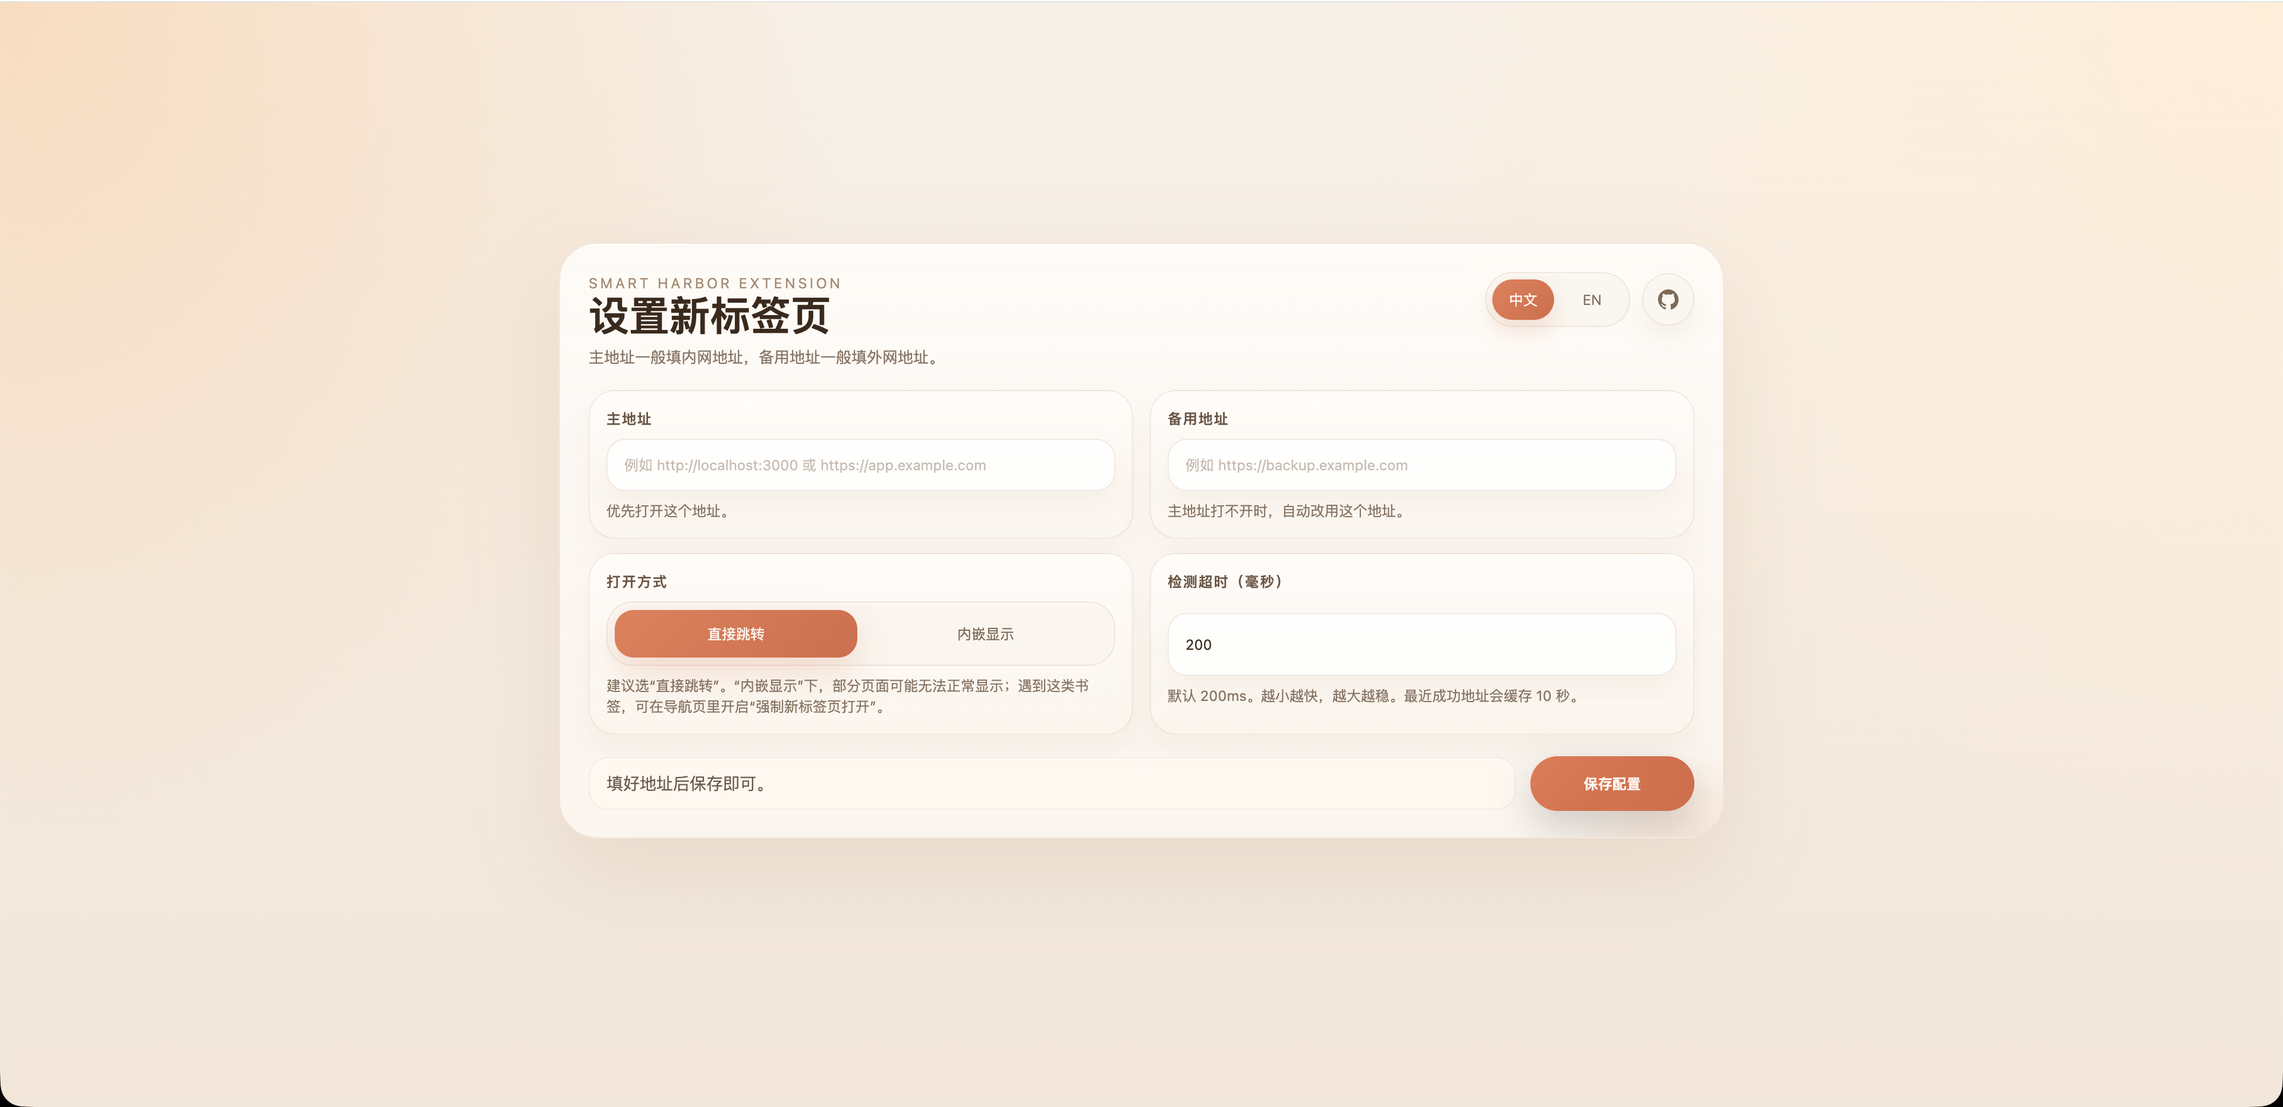
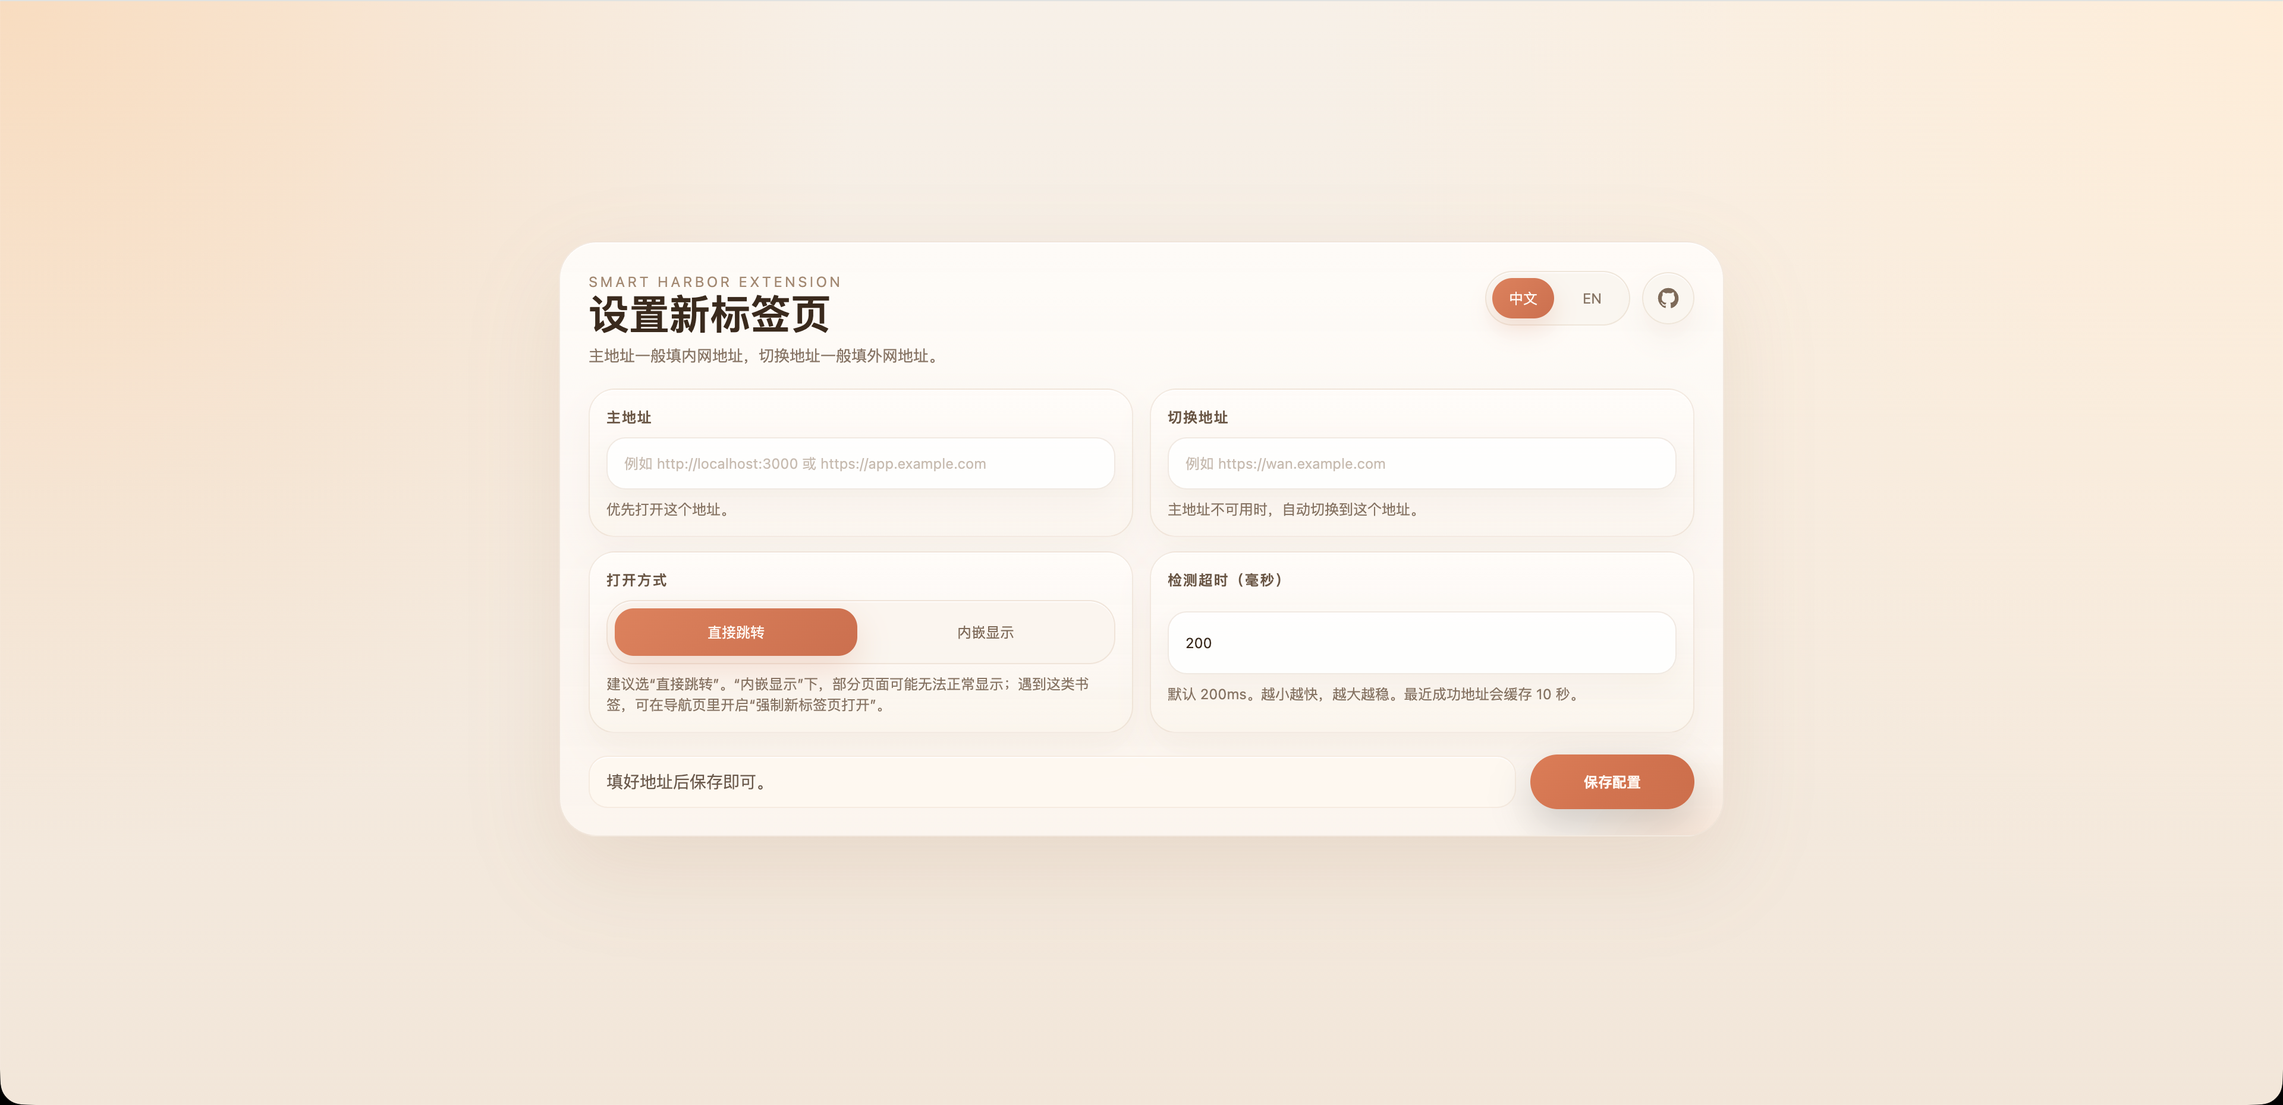
release: v1.2.2

diff --git a/src/features/services/ServiceGrid.tsx b/src/features/services/ServiceGrid.tsx
@@ -1,4 +1,5 @@
 import { startTransition, useEffect, useMemo, useRef, useState } from 'react'
+import type { CSSProperties } from 'react'
 import { createPortal } from 'react-dom'
 import { Pencil, Trash2 } from 'lucide-react'
 import { useI18n } from '@/i18n/runtime'
@@ -30,22 +31,33 @@ interface ContextMenuState {
   y: number
 }
 
-const DESKTOP_SECTION_PADDING_PX = 24
+const DESKTOP_SECTION_HORIZONTAL_PADDING_PX = 24
 const DESKTOP_LABEL_WIDTH_PX = 84
-const DESKTOP_CONTENT_GAP_PX = 12
-const DESKTOP_CARD_WIDTH_PX = 130
+const DESKTOP_SECTION_GAP_PX = 12
+const DESKTOP_GRID_HORIZONTAL_PADDING_PX = 12
 const DESKTOP_CARD_GAP_PX = 10
+const DESKTOP_CARD_MIN_WIDTH_PX = 130
 
-function getCompactGroupWidth(cardCount: number) {
-  const totalCardWidth = cardCount * DESKTOP_CARD_WIDTH_PX
-  const totalCardGaps = Math.max(cardCount - 1, 0) * DESKTOP_CARD_GAP_PX
+function getDesktopCardWidth(containerWidth: number, desktopColumnCount: number) {
+  const availableWidth =
+    containerWidth -
+    DESKTOP_SECTION_HORIZONTAL_PADDING_PX -
+    DESKTOP_LABEL_WIDTH_PX -
+    DESKTOP_SECTION_GAP_PX -
+    DESKTOP_GRID_HORIZONTAL_PADDING_PX -
+    Math.max(desktopColumnCount - 1, 0) * DESKTOP_CARD_GAP_PX
 
+  return Math.max(Math.floor(availableWidth / desktopColumnCount), DESKTOP_CARD_MIN_WIDTH_PX)
+}
+
+function getCompactGroupWidth(cardCount: number, desktopCardWidth: number) {
   return (
-    DESKTOP_SECTION_PADDING_PX +
+    DESKTOP_SECTION_HORIZONTAL_PADDING_PX +
     DESKTOP_LABEL_WIDTH_PX +
-    DESKTOP_CONTENT_GAP_PX +
-    totalCardWidth +
-    totalCardGaps
+    DESKTOP_SECTION_GAP_PX +
+    DESKTOP_GRID_HORIZONTAL_PADDING_PX +
+    cardCount * desktopCardWidth +
+    Math.max(cardCount - 1, 0) * DESKTOP_CARD_GAP_PX
   )
 }
 
@@ -62,6 +74,21 @@ export function ServiceGrid() {
   const [contextMenu, setContextMenu] = useState<ContextMenuState | null>(null)
   const [editingSlug, setEditingSlug] = useState<string | null>(null)
   const [gridWidth, setGridWidth] = useState(0)
+  const [desktopColumnCount, setDesktopColumnCount] = useState(() => {
+    if (typeof window === 'undefined') {
+      return 0
+    }
+
+    if (window.innerWidth >= 1280) {
+      return 8
+    }
+
+    if (window.innerWidth >= 1024) {
+      return 6
+    }
+
+    return 0
+  })
   const [, setIconRenderVersion] = useState(0)
   const gridRef = useRef<HTMLDivElement | null>(null)
   const activeSystemConfig = systemConfig ?? defaultSystemConfig
@@ -128,8 +155,30 @@ export function ServiceGrid() {
   }, [contextMenu])
 
   useEffect(() => {
+    if (typeof window === 'undefined') {
+      return
+    }
+
+    const updateDesktopColumnCount = () => {
+      setDesktopColumnCount((current) => {
+        const next =
+          window.innerWidth >= 1280 ? 8 : window.innerWidth >= 1024 ? 6 : 0
+
+        return current === next ? current : next
+      })
+    }
+
+    updateDesktopColumnCount()
+    window.addEventListener('resize', updateDesktopColumnCount)
+
+    return () => {
+      window.removeEventListener('resize', updateDesktopColumnCount)
+    }
+  }, [])
+
+  useEffect(() => {
     const element = gridRef.current
-    if (!element || typeof ResizeObserver === 'undefined') {
+    if (!element) {
       return
     }
 
@@ -138,6 +187,10 @@ export function ServiceGrid() {
     }
 
     updateWidth(Math.round(element.getBoundingClientRect().width))
+
+    if (typeof ResizeObserver === 'undefined') {
+      return
+    }
 
     const observer = new ResizeObserver((entries) => {
       const entry = entries[0]
@@ -257,6 +310,10 @@ export function ServiceGrid() {
 
   const menuLeft = contextMenu ? Math.min(contextMenu.x, window.innerWidth - 180) : 0
   const menuTop = contextMenu ? Math.min(contextMenu.y, window.innerHeight - 120) : 0
+  const desktopCardWidth =
+    desktopColumnCount > 0 && gridWidth > 0
+      ? getDesktopCardWidth(gridWidth, desktopColumnCount)
+      : DESKTOP_CARD_MIN_WIDTH_PX
 
   return (
     <>
@@ -265,8 +322,16 @@ export function ServiceGrid() {
           const isGroupDropTarget =
             dragOver?.groupIndex === group.actualGroupIndex &&
             typeof dragOver.serviceIndex === 'undefined'
-          const compactGroupWidth = getCompactGroupWidth(group.services.length)
-          const canKeepSingleRow = group.services.length > 0 && compactGroupWidth <= gridWidth
+          const compactGroupWidth = getCompactGroupWidth(group.services.length, desktopCardWidth)
+          const canKeepSingleRow =
+            desktopColumnCount > 0 &&
+            group.services.length > 0 &&
+            compactGroupWidth <= gridWidth
+          const compactGridStyle = canKeepSingleRow
+            ? ({
+                '--desktop-card-width': `${desktopCardWidth}px`,
+              } as CSSProperties)
+            : undefined
 
           return (
             <section
@@ -284,7 +349,8 @@ export function ServiceGrid() {
                 </div>
 
                 <div
-                  className={`grid min-h-[76px] w-full flex-1 grid-cols-2 gap-2 rounded-[1.15rem] bg-background/34 p-1 transition sm:grid-cols-3 md:grid-cols-4 md:gap-2.5 md:p-1.5 ${canKeepSingleRow ? 'lg:flex lg:w-fit lg:flex-none lg:flex-nowrap lg:justify-start' : 'lg:grid lg:grid-cols-6 xl:grid-cols-8'} ${isGroupDropTarget ? 'bg-primary/6 ring-1 ring-primary/10' : ''}`}
+                  className={`grid min-h-[76px] w-full flex-1 grid-cols-2 gap-2 rounded-[1.15rem] bg-background/34 p-1 transition sm:grid-cols-3 md:grid-cols-4 md:gap-2.5 md:p-1.5 ${canKeepSingleRow ? 'lg:w-fit lg:flex-none lg:grid-flow-col lg:grid-cols-none lg:auto-cols-[var(--desktop-card-width)]' : 'lg:grid-cols-6 xl:grid-cols-8'} ${isGroupDropTarget ? 'bg-primary/6 ring-1 ring-primary/10' : ''}`}
+                  style={compactGridStyle}
                   onDragOver={(event) => {
                     if (!canDrag || !draggingSlug) {
                       return
@@ -310,7 +376,7 @@ export function ServiceGrid() {
                       return (
                         <div
                           key={service.slug}
-                          className={`transform-gpu animate-slide-up motion-reduce:animate-none ${canKeepSingleRow ? 'lg:w-[8.125rem]' : ''}`}
+                          className="transform-gpu animate-slide-up motion-reduce:animate-none"
                           style={{ animationDelay: `${(groupIndex * 3 + index) * 45}ms` }}
                         >
                           <ServiceCard

diff --git a/extension/src/i18n.ts b/extension/src/i18n.ts
@@ -4,16 +4,16 @@ const messages = {
   'zh-CN': {
     options: {
       title: '设置新标签页',
-      subtitle: '主地址一般填内网地址，备用地址一般填外网地址。',
+      subtitle: '主地址一般填内网地址，切换地址一般填外网地址。',
       languageToggleAriaLabel: '切换语言',
       languageChinese: '中文',
       languageEnglish: 'EN',
       primaryUrlLabel: '主地址',
       primaryUrlPlaceholder: '例如 http://localhost:3000 或 https://app.example.com',
       primaryUrlHint: '优先打开这个地址。',
-      fallbackUrlLabel: '备用地址',
-      fallbackUrlPlaceholder: '例如 https://backup.example.com',
-      fallbackUrlHint: '主地址打不开时，自动改用这个地址。',
+      fallbackUrlLabel: '切换地址',
+      fallbackUrlPlaceholder: '例如 https://wan.example.com',
+      fallbackUrlHint: '主地址不可用时，自动切换到这个地址。',
       openModeLabel: '打开方式',
       openModeAriaLabel: '打开方式',
       openModeDirect: '直接跳转',
@@ -36,15 +36,15 @@ const messages = {
       loadingTitle: '正在打开导航页',
       loadingHint: '请稍候...',
       unconfiguredTitle: '先配置导航页地址',
-      unconfiguredDescription: '先到设置页填写主地址和备用地址，再选择打开方式。',
+      unconfiguredDescription: '先到设置页填写主地址和切换地址，再选择打开方式。',
       openSettingsButton: '打开配置页',
       noticeOpeningTitle: '正在打开导航页',
-      noticeFallbackTitle: '已切换到备用地址',
+      noticeFallbackTitle: '已切换地址',
       statusByReason: {
         primary: '主地址可用，正在打开导航页。',
-        fallback: '主地址不可用，已自动切换到备用地址。',
+        fallback: '主地址不可用，已自动切换到切换地址。',
         'primary-unverified': '无法验证主地址，已直接尝试打开。',
-        'fallback-unverified': '已切换到备用地址，但扩展没有权限验证连通性。',
+        'fallback-unverified': '已切换到切换地址，但扩展没有权限验证其连通性。',
         unconfigured: '尚未配置导航页地址。',
       } satisfies Record<ResolutionReason, string>,
     },
@@ -52,16 +52,16 @@ const messages = {
   en: {
     options: {
       title: 'New Tab Settings',
-      subtitle: 'Use your LAN URL as primary and your WAN URL as fallback in most cases.',
+      subtitle: 'Use your LAN URL as primary and your WAN URL as secondary in most cases.',
       languageToggleAriaLabel: 'Switch language',
       languageChinese: '中文',
       languageEnglish: 'EN',
       primaryUrlLabel: 'Primary URL',
       primaryUrlPlaceholder: 'For example http://localhost:3000 or https://app.example.com',
       primaryUrlHint: 'Open this address first.',
-      fallbackUrlLabel: 'Fallback URL',
-      fallbackUrlPlaceholder: 'For example https://backup.example.com',
-      fallbackUrlHint: 'Use this address if the primary one is unavailable.',
+      fallbackUrlLabel: 'Secondary URL',
+      fallbackUrlPlaceholder: 'For example https://wan.example.com',
+      fallbackUrlHint: 'Use this address when the primary one is unavailable.',
       openModeLabel: 'Open mode',
       openModeAriaLabel: 'Open mode',
       openModeDirect: 'Direct',
@@ -85,16 +85,16 @@ const messages = {
       loadingHint: 'Please wait...',
       unconfiguredTitle: 'Set the navigation page first',
       unconfiguredDescription:
-        'Open settings, fill in the primary and fallback addresses, then choose how the page should open.',
+        'Open settings, fill in the primary and secondary URLs, then choose how the page should open.',
       openSettingsButton: 'Open Settings',
       noticeOpeningTitle: 'Opening Smart Harbor',
-      noticeFallbackTitle: 'Switched to fallback',
+      noticeFallbackTitle: 'Switched to secondary URL',
       statusByReason: {
         primary: 'Primary address is available. Opening Smart Harbor.',
-        fallback: 'Primary address is unavailable. Switched to the fallback address.',
+        fallback: 'Primary address is unavailable. Switched to the secondary URL.',
         'primary-unverified': 'The primary address could not be verified, so it is being opened directly.',
         'fallback-unverified':
-          'Switched to the fallback address, but the extension cannot verify its availability.',
+          'Switched to the secondary URL, but the extension cannot verify its availability.',
         unconfigured: 'No navigation page address has been configured yet.',
       } satisfies Record<ResolutionReason, string>,
     },

diff --git a/src/components/TopBar.tsx b/src/components/TopBar.tsx
@@ -129,7 +129,7 @@ export function TopBar() {
               <div
                 role="dialog"
                 aria-label={messages.topBar.networkInfo.title}
-                className="fixed top-[4.5rem] right-3 left-3 z-[100] max-h-[calc(100vh-5.25rem)] overflow-y-auto rounded-[1.2rem] border border-stone-200/90 bg-stone-50 p-4 text-left shadow-[0_24px_60px_rgba(15,23,42,0.22)] ring-1 ring-stone-900/5 backdrop-blur-xl sm:absolute sm:top-full sm:right-auto sm:left-0 sm:mt-2.5 sm:w-[22rem] sm:max-h-[min(28rem,calc(100vh-7rem))] dark:border-stone-700/80 dark:bg-stone-950 dark:ring-white/10 dark:shadow-[0_28px_70px_rgba(0,0,0,0.5)]"
+                className="fixed top-[4.5rem] right-3 left-3 z-[100] max-h-[calc(100vh-5.25rem)] overflow-y-auto rounded-[1.2rem] border border-stone-200/90 bg-stone-50 p-4 text-left shadow-[0_24px_60px_rgba(15,23,42,0.22)] ring-1 ring-stone-900/5 backdrop-blur-xl sm:absolute sm:top-full sm:right-auto sm:left-0 sm:mt-2.5 sm:w-[22rem] sm:max-h-none sm:overflow-visible dark:border-stone-700/80 dark:bg-stone-950 dark:ring-white/10 dark:shadow-[0_28px_70px_rgba(0,0,0,0.5)]"
               >
                 <div
                   aria-hidden="true"

diff --git a/src/features/services/ServiceCard.tsx b/src/features/services/ServiceCard.tsx
@@ -73,7 +73,7 @@ export function ServiceCard({
           <ServiceIcon name={service.icon} className="h-3 w-3" autoLoad={false} />
         </div>
         <div className="flex min-h-[2rem] min-w-0 items-center justify-start pr-0.5">
-          <div className="w-full min-w-0 text-left text-[12px] font-semibold leading-[1.28] text-foreground/95 sm:text-[12.5px] [display:-webkit-box] [-webkit-box-orient:vertical] [-webkit-line-clamp:2] overflow-hidden break-normal">
+          <div className="w-full min-w-0 overflow-hidden text-left text-[12px] font-semibold leading-[1.28] text-foreground/95 break-words sm:text-[12.5px] [display:-webkit-box] [-webkit-box-orient:vertical] [-webkit-line-clamp:2]">
             {service.name}
           </div>
         </div>

diff --git a/src/core/navigation/resolveTargetUrl.ts b/src/core/navigation/resolveTargetUrl.ts
@@ -10,7 +10,7 @@ export interface ResolvedUrls {
  * 根据网络模式解析目标地址
  * @param service 服务配置
  * @param networkMode 网络模式
- * @returns 主地址和备用地址
+ * @returns 主地址和切换地址
  */
 export function resolveTargetUrl(service: Service, networkMode: NetworkMode): ResolvedUrls {
   if (networkMode === 'wan' && service.secondaryUrl) {

diff --git a/CHANGELOG.md b/CHANGELOG.md
@@ -1,0 +1,40 @@
+# Changelog
+
+本文件用于在 `main` 分支记录每个正式版本的简洁更新说明。
+Each release on `main` should add a short bilingual summary here.
+
+## v1.2.2 - 2026-03-15
+
+### 中文
+- 优化首页书签卡片布局，桌面端会根据可用宽度更自然地保持单行排列。
+- 改进较长书签名称的显示效果，减少拥挤和换行异常。
+- 优化顶部网络模式说明弹层的桌面端显示，减少多余滚动并提升可读性。
+
+### English
+- Improved the homepage bookmark grid so desktop layouts keep single-row groups more naturally based on available width.
+- Improved long bookmark name rendering to reduce cramped wrapping and overflow issues.
+- Improved the desktop network mode help popover to reduce unnecessary scrolling and make it easier to read.
+
+## Writing Rules
+
+- 新版本写在最上方，按版本倒序排列。
+- 每个版本同时提供中文和英文说明。
+- 内容保持简洁，优先列出 2 到 5 条用户可感知的更新。
+- 避免长段落、实现细节和空泛描述。
+- 如果本次版本包含插件发布，应明确写出插件相关更新。
+
+## Template
+
+```md
+## vX.Y.Z[-web|-extension] - YYYY-MM-DD
+
+### 中文
+- 更新点 1
+- 更新点 2
+- 插件：更新点 3
+
+### English
+- Update 1
+- Update 2
+- Extension: Update 3
+```

diff --git a/README.zh-CN.md b/README.zh-CN.md
@@ -122,7 +122,7 @@ docker run -d \
 | `services[].items[].name` | 书签显示名称 | 非空字符串 |
 | `services[].items[].icon` | Lucide 图标名称 | 可选 |
 | `services[].items[].primaryUrl` | 主地址，通常填局域网地址 | 必填 URL |
-| `services[].items[].secondaryUrl` | 切换地址，通常填公网地址 | 可选 URL |
+| `services[].items[].secondaryUrl` | 切换地址，通常填外网地址 | 可选 URL |
 | `services[].items[].probes[]` | 用于探测当前网络可达性的地址列表 | 可选，至少一个 URL |
 | `services[].items[].forceNewTab` | 是否强制在新标签页打开该书签 | 可选布尔值 |
 
@@ -193,8 +193,8 @@ docker run -d \
 
 如果你希望每次打开 Chrome 新标签页都直接进入 Smart Harbor，可以使用仓库内置插件。
 
-- `primaryUrl`：优先访问的地址，通常填写局域网地址
-- `fallbackUrl`：备用地址，通常填写公网地址
+- `primaryUrl`：主地址，通常填写局域网地址
+- `fallbackUrl`：切换地址，通常填写外网地址
 - `openMode`：`embedded` 表示在新标签页中以内嵌方式打开，`direct` 表示直接跳转
 - `probeTimeoutMs`：地址探测超时时间，默认 `200`
 - 点击浏览器工具栏中的插件图标即可打开设置页

diff --git a/release-notes/README.md b/release-notes/README.md
@@ -1,0 +1,30 @@
+# Release Notes
+
+该目录用于存放 GitHub Release 说明文件，文件名必须与 tag 完全一致。
+This directory stores GitHub release note files, and each filename must exactly match the release tag.
+
+## File Naming
+
+- `release-notes/v1.2.3.md`
+- `release-notes/v1.2.3-extension.md`
+
+## Writing Rules
+
+- 仅在会触发 GitHub Release 的版本中强制要求提供该文件，也就是包含插件发布的 tag。
+- 内容必须中英双语，简洁明了，通常控制在 2 到 5 条。
+- 如果 tag 包含插件发布，必须明确列出本次插件更新内容。
+- 允许复用 `CHANGELOG.md` 的要点，但应整理为适合 GitHub Release 展示的简短说明。
+
+## Template
+
+```md
+## 中文
+- 更新点 1
+- 更新点 2
+- 插件：更新点 3
+
+## English
+- Update 1
+- Update 2
+- Extension: Update 3
+```

diff --git a/README.md b/README.md
@@ -193,8 +193,8 @@ On first start, Smart Harbor writes a single `config.json` into your mounted con
 
 Use the bundled extension when you want every Chrome new tab to open Smart Harbor.
 
-- `primaryUrl`: first address to try, usually your LAN URL
-- `fallbackUrl`: backup address, usually your public URL
+- `primaryUrl`: primary URL, usually your LAN URL
+- `fallbackUrl`: secondary URL, usually your WAN URL
 - `openMode`: `embedded` keeps Smart Harbor inside the new tab page; `direct` redirects immediately
 - `probeTimeoutMs`: request timeout for address detection, default `200`
 - Clicking the extension toolbar icon opens the settings page

diff --git a/release-notes/v1.2.2.md b/release-notes/v1.2.2.md
@@ -1,0 +1,9 @@
+## 中文
+- 优化首页书签卡片布局，桌面端会根据可用宽度更自然地保持单行排列。
+- 改进较长书签名称的显示效果，减少拥挤和换行异常。
+- 优化顶部网络模式说明弹层的桌面端显示，减少多余滚动并提升可读性。
+
+## English
+- Improved the homepage bookmark grid so desktop layouts keep single-row groups more naturally based on available width.
+- Improved long bookmark name rendering to reduce cramped wrapping and overflow issues.
+- Improved the desktop network mode help popover to reduce unnecessary scrolling and make it easier to read.
